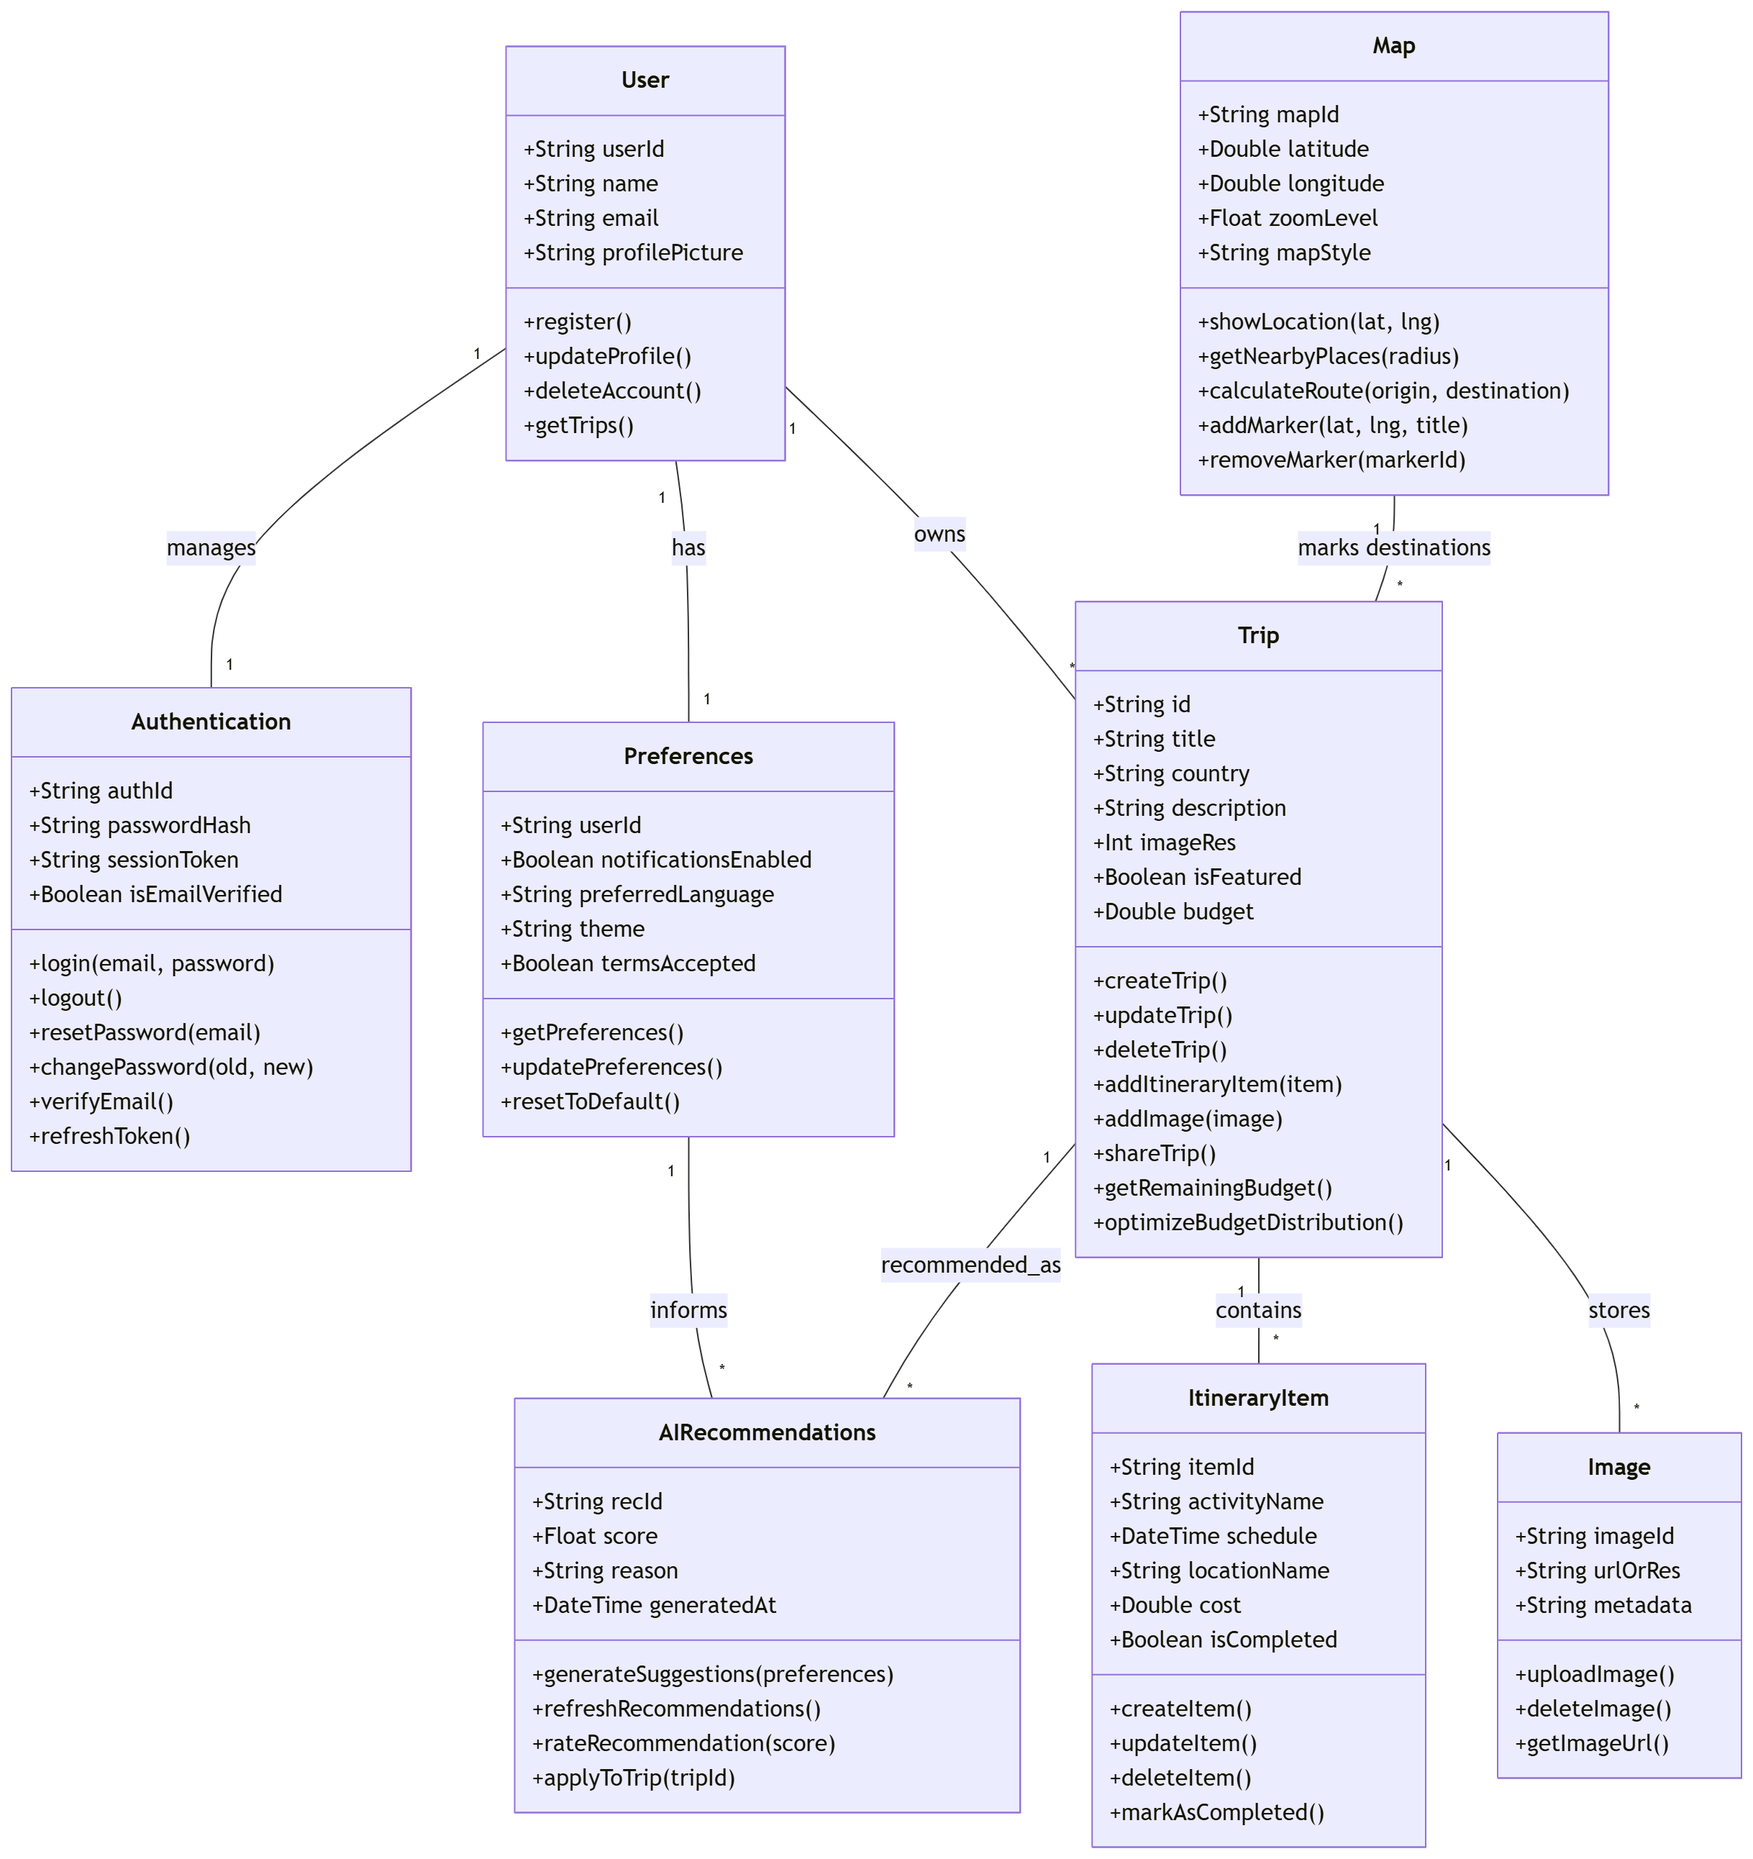
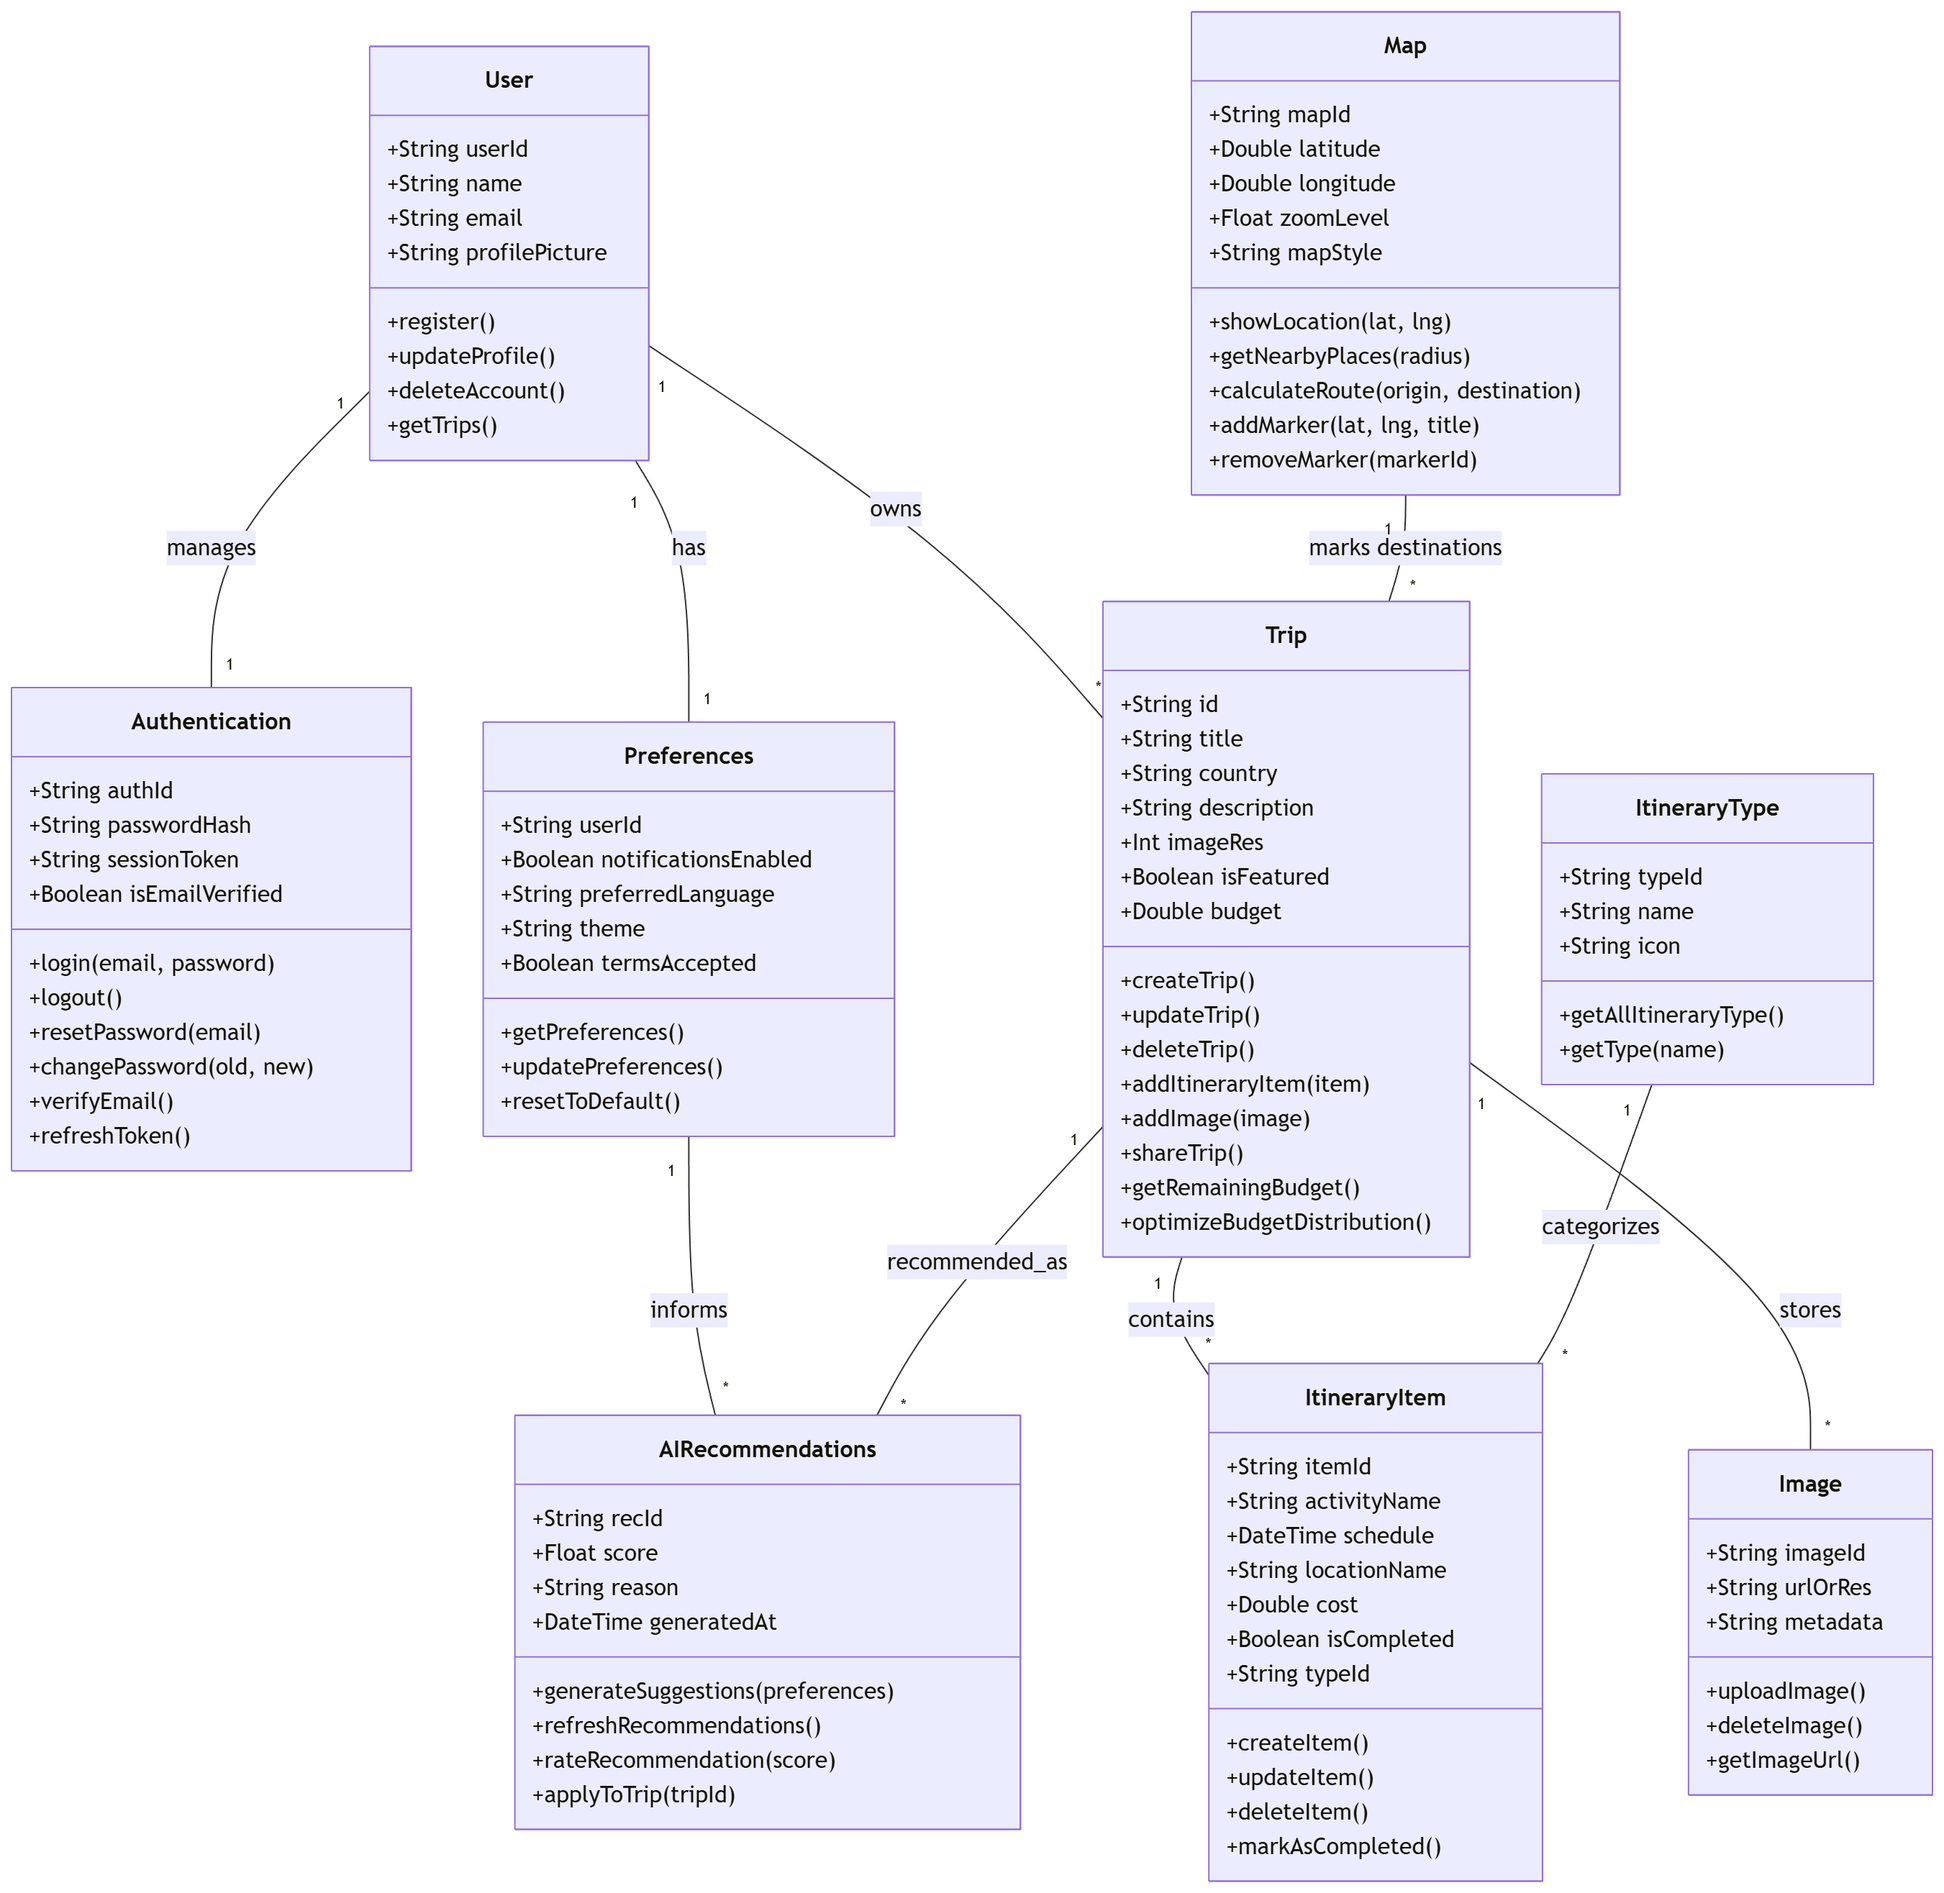
design.md

diff --git a/docs/design.md b/docs/design.md
@@ -1,10 +1,51 @@
-# 📐 Diseño Arquitectónico de Travel Planner
+# 📐 Diseño Arquitectónico de Nomad
 
 ## 🏛 Arquitectura General
-Travel Planner sigue una arquitectura **MVVM (Model-View-ViewModel)** para una mejor separación de responsabilidades y escalabilidad.
+Nomad sigue una arquitectura **MVVM (Model-View-ViewModel)** para una mejor separación de responsabilidades y escalabilidad.
 
 
 ## 📊 Modelo de Datos: Creado completo para futuros Sprints
 
 ![alt text](domain_model.png)
 
+El dominio de la aplicación se divide en módulos lógicos interconectados que representan las entidades principales del ecosistema de viajes.
+
+### Entidades Principales
+* **User & Authentication**: El `User` centraliza la identidad (nombre, email, foto) y se vincula 1:1 con `Authentication` para gestionar tokens de sesión y seguridad.
+* **Trip (Viaje)**: La entidad núcleo que contiene detalles como `title`, `country`, `description` y `budget`. Posee métodos de lógica de negocio como `optimizeBudgetDistribution()`.
+* **ItineraryItem (Paradas)**: Cada viaje contiene una lista de ítems (vuelos, hoteles, actividades) vinculados a un `ItineraryType` para su categorización.
+* **Preferences**: Almacena la configuración del usuario, incluyendo el estado de `termsAccepted` y el idioma preferido.
+* **AIRecommendations**: Sistema que consume las `Preferences` del usuario para generar sugerencias personalizadas de destinos y paradas.
+
+---
+
+## 🎨 UI & Screens (Capa de Presentación)
+
+### 1. Formulario de Viaje (`FormularioViaje`)
+Esta pantalla gestiona la creación de un `Trip` mediante un proceso de pasos dinámicos.
+
+* **Paso 1 (Detalles)**: Captura la información general utilizando `OutlinedTextField` y selectores de fecha (`DatePicker`) para ida y vuelta.
+* **Paso 2 (Actividades)**: Permite visualizar y añadir `ItineraryItem` a la lista actual del viaje.
+* **Navegación**: Utiliza `AnimatedContent` para transiciones fluidas entre las etapas del formulario.
+
+### 2. Gestión de Itinerarios (`DialogoNuevaActividad`)
+Componente modal que permite la entrada de datos para nuevas paradas.
+* **Input de Tiempo**: Implementa `TimePicker` de Material 3 para definir el `schedule` de la actividad.
+* **Categorización**: Un `DropdownMenu` permite seleccionar el tipo de actividad (Vuelo, Restaurante, Hotel, etc.), mapeándolo con `ItineraryType`.
+
+---
+
+## 🛠 Tecnologías y Estándares
+
+| Componente | Tecnología |
+| :--- | :--- |
+| **Framework UI** | Jetpack Compose (Declarativo) |
+| **Diseño** | Material Design 3 (M3) |
+| **Navegación** | Compose Navigation Recomended |
+| **Persistencia de Configuración** | SharedPreferences (para `terms_accepted`) |
+| **Gestión de Estado** | `mutableStateOf` con `rememberSaveable` |
+
+
+
+
+---
